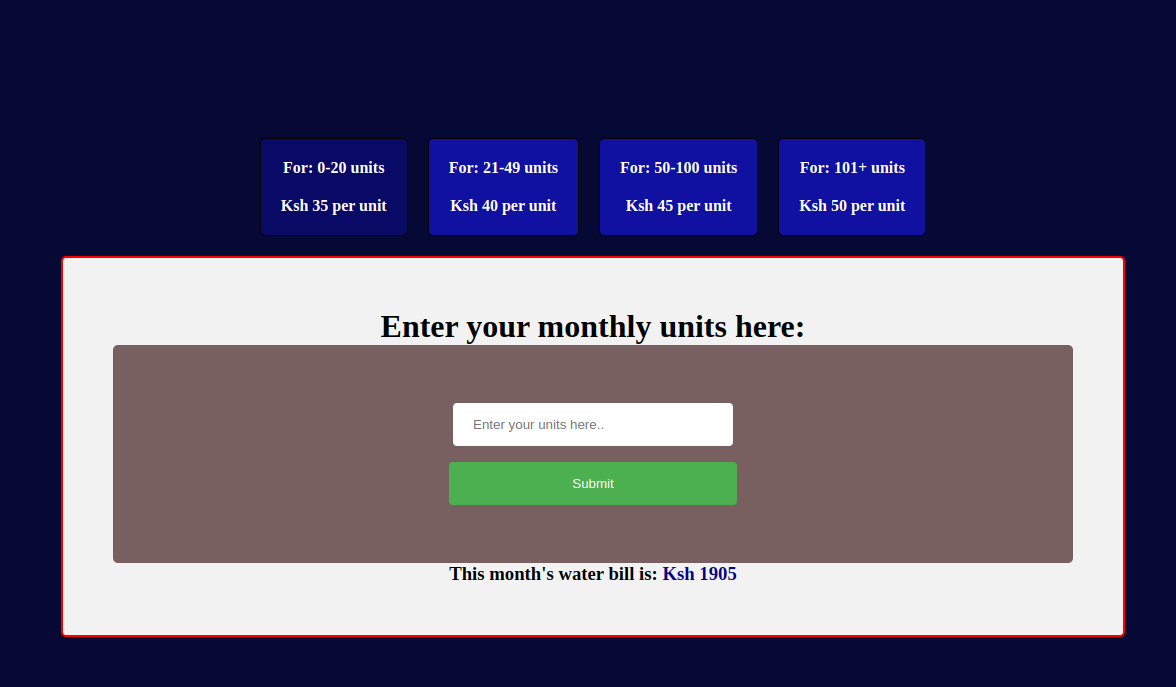
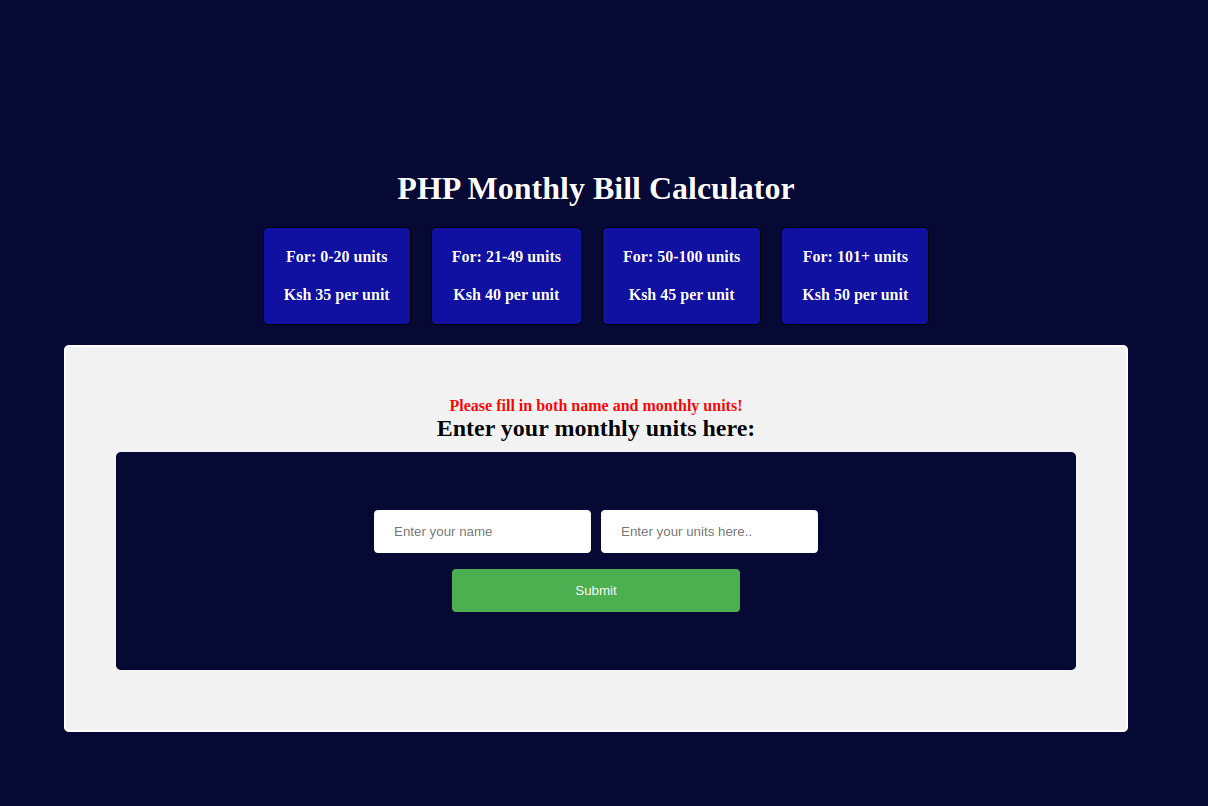
PHP Verifications

diff --git a/style.css b/style.css
@@ -51,12 +51,16 @@ h1{
     text-align: center;
     color: rgb(255, 255, 255);
 }
-
-/* h2{
-  text-align: center;
-  color: rgb(255, 255, 255);
-} */
-
+h2{
+  margin-bottom: 10px;
+}
+.error{
+  color: red;
+  font-weight: 900;
+}
+.message{
+  margin-top: 10px;
+}
 h4{
   text-align: center;
   color: rgb(255, 255, 255);
@@ -74,7 +78,7 @@ h4{
     background-color: #f2f2f2;
     padding: 50px;
     width: 50vw;
-    border: 2px solid red;
+    border: 2px solid rgb(255, 255, 255);
 }
 form {
     display: flex;
@@ -85,11 +89,11 @@ form {
     text-align: center;
     border-radius: 5px;
     padding: 50px 0px;
-    background-color: #796060;
+    background-color: rgb(5, 9, 51);
     width: 100%;
   }
   input[type=number],  input[type=text]{
-    width: 25%;
+    width: 45%;
     background-color: #ffffff;
     color: rgb(0, 0, 0);
     padding: 14px 20px;
@@ -123,7 +127,8 @@ form {
 
   @media only screen and (max-width: 600px) {
     .content{
-      flex-flow: column wrap;
+      
+      ;
     }
 
     .card {

diff --git a/index.php b/index.php
@@ -30,15 +30,16 @@
             </div>
         </div>
         <div class="form">
+            <p class="error"><?php if(isset($_POST["water-bill"]) && (!$_POST["water-bill"] || !$_POST["name"])) echo "Please fill in both name and monthly units!" ?></p>
             <h2>Enter your monthly units here:</h2>
-            <form action="index.php" method="post">
+            <form action="<?php echo htmlspecialchars($_SERVER["PHP_SELF"]);?>" method="post">
                 <div class="inputs">
                     <input type="text" name="name" placeholder="Enter your name">
                     <input type="number" id="water-bill" name="water-bill" placeholder="Enter your units here..">
                 </div>
                 <input type="submit" value="Submit">
             </form>
-            <p><?php echo ($waterBill->displayBill()) ?></p>
+            <p class="message"><?php echo $waterBill->displayBill();  ?></p>
         </div>
 
     </div>

diff --git a/classes.php b/classes.php
@@ -2,7 +2,7 @@
 
 class WaterBill {
     private $bill;
-    public $name;
+    private $name;
 
     public function __construct($bill, $name) {
         $this->bill = $bill;
@@ -26,9 +26,14 @@ class WaterBill {
     }
 }
 
-if (isset($_POST["water-bill"])) {
-$waterBill = new WaterBill($_POST["water-bill"], $_POST["name"]);
-$waterBill->calculateBill();
-$waterBill->displayBill();
+if (isset($_POST["water-bill"]) && isset($_POST["name"])) {
+    if(!empty($_POST["water-bill"]) && !empty($_POST["name"])){
+        $waterBill = new WaterBill($_POST["water-bill"], $_POST["name"]);
+        $waterBill->calculateBill();
+        $waterBill->displayBill();
+    }
+    }else{
+        echo "Please fill in both name and monthly units";
 }
+
 ?>  
